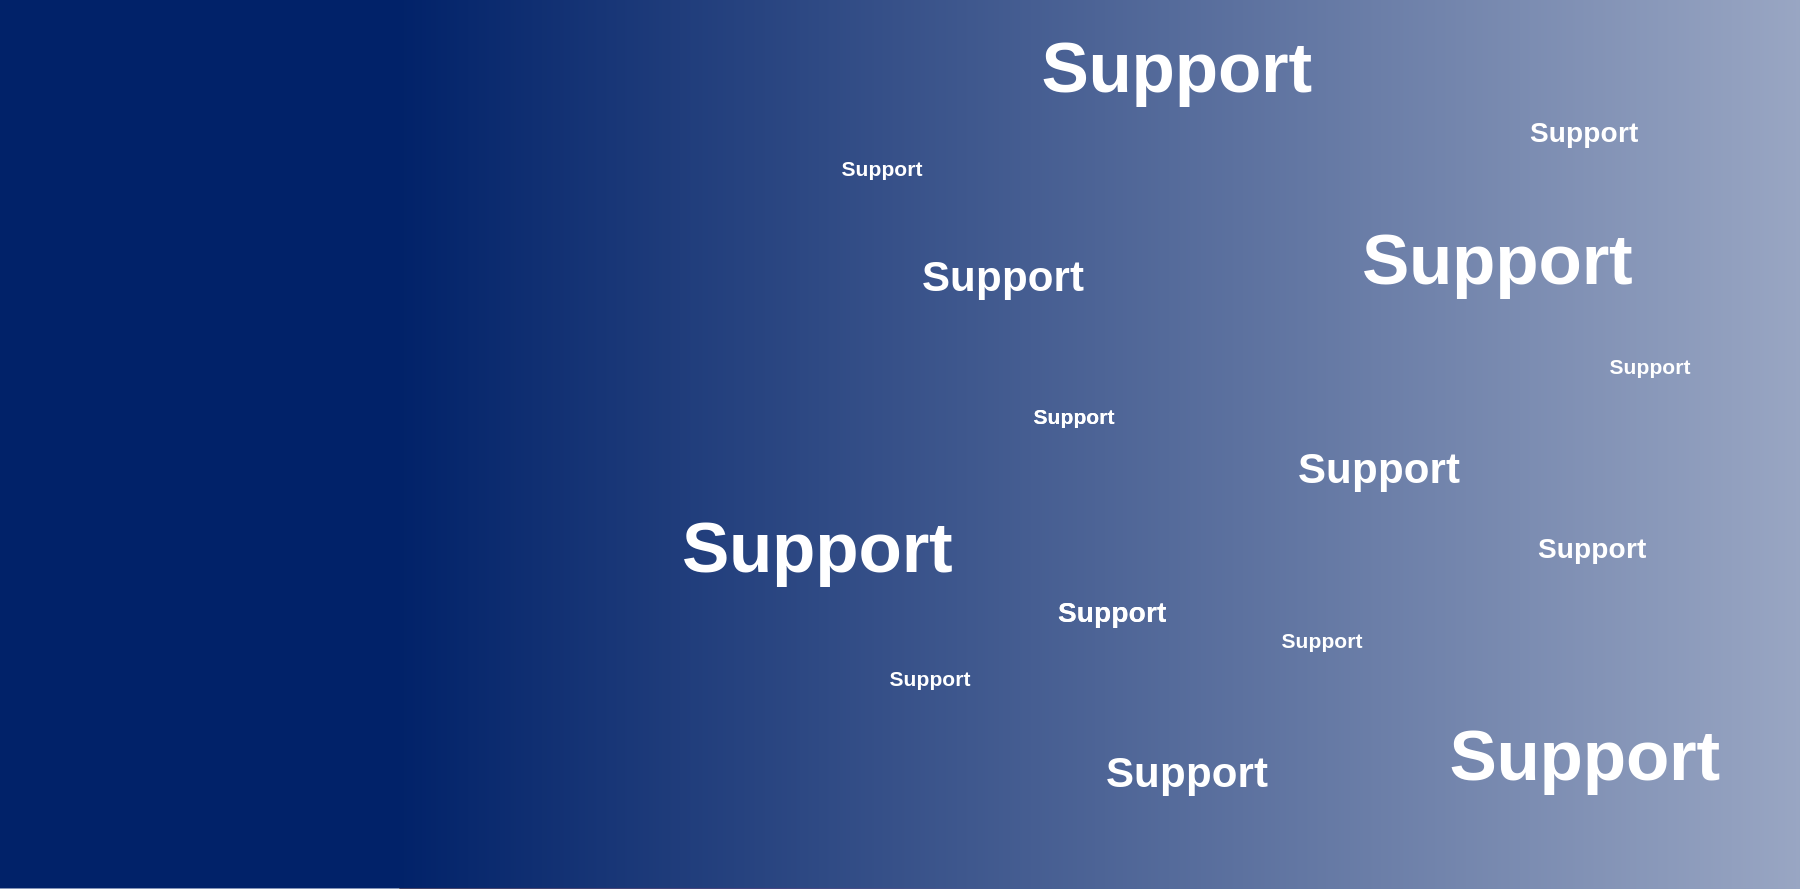
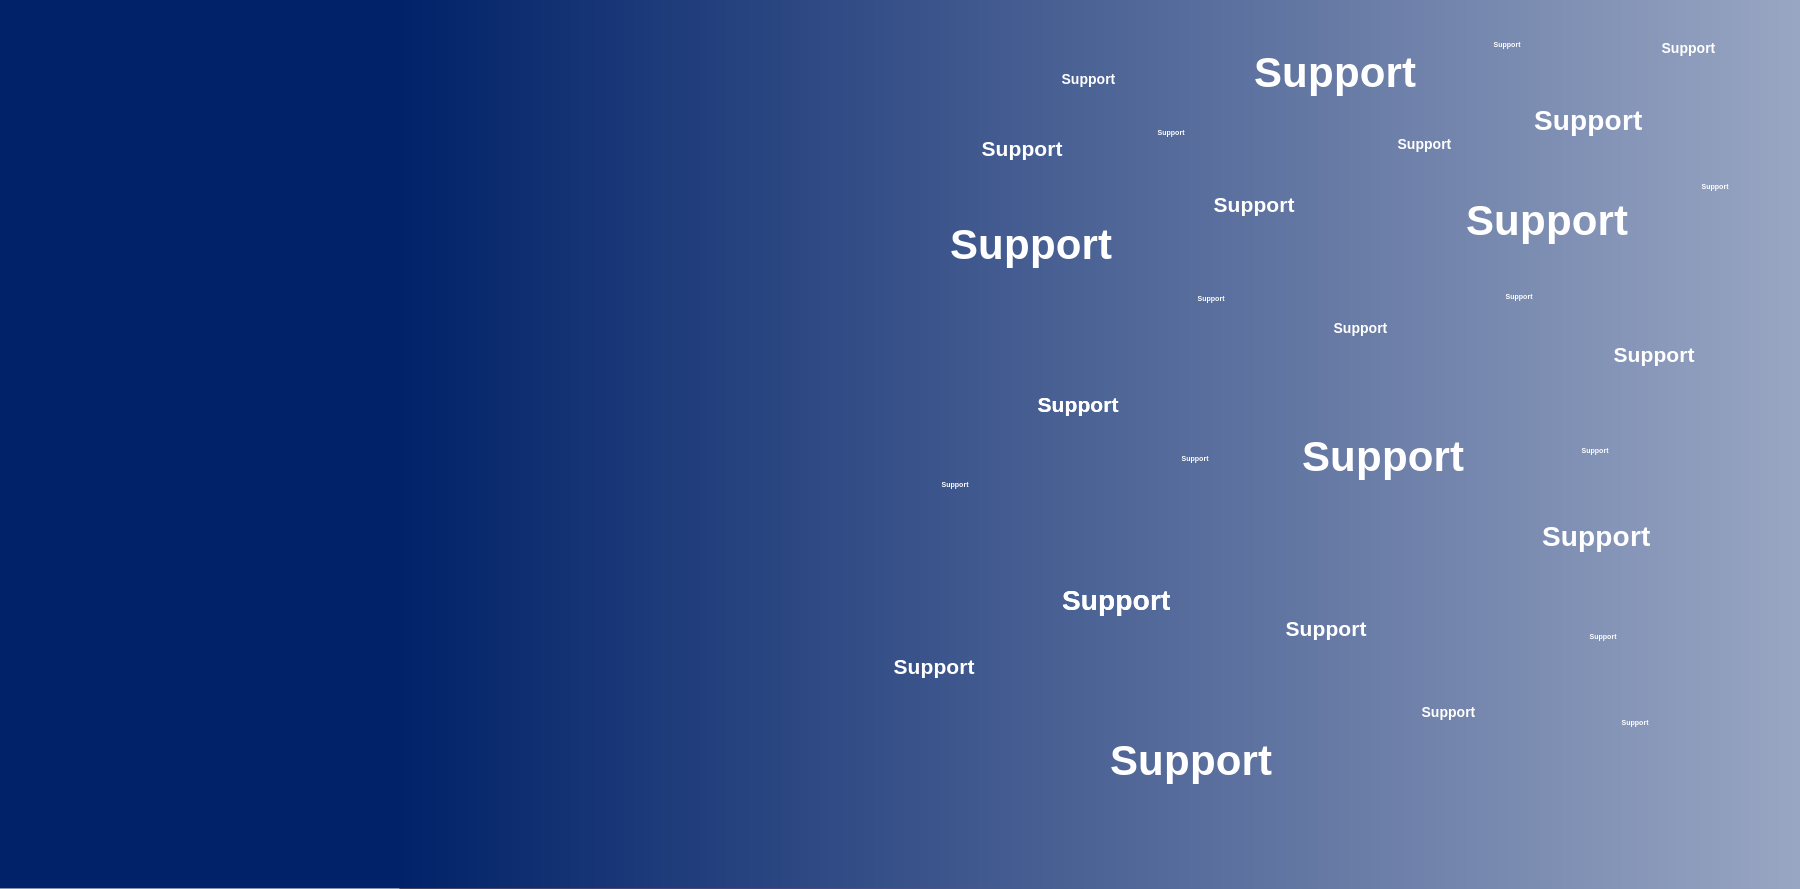
improved headers

diff --git a/static/css/support.css b/static/css/support.css
@@ -1,5 +1,5 @@
 .header-default-bg-img .featured-jumbotron {
-    background-image: url('/4diac/img/4diac-contribute-bg.png');
+    background-image: url('/4diac/img/4diac-support-bg.png');
     background-repeat: no-repeat;
     background-size: cover;
   }

diff --git a/content/support.md b/content/support.md
@@ -1,9 +1,11 @@
 ---
 title: "Support"
 date: 2020-03-01T16:09:45-04:00
-#headline: "The Community for Open Innovation and Collaboration"
+headline: > 
+  Support for <span class="white">Eclipse 4diac™</span>
 #tagline: "The Eclipse Foundation provides our global community of individuals and organizations with a mature, scalable, and business-friendly environment for open source software collaboration and innovation."
 hide_page_title: true
+page_css_file: /4diac/css/support.css
 #hide_sidebar: true
 #hide_breadcrumb: true
 #show_featured_story: true
@@ -11,10 +13,6 @@ hide_page_title: true
 #links: [[href: "/projects/", text: "Projects"],[href: "/org/workinggroups/", text: "Working Group"],[href: "/membership/", text: "Members"],[href: "/org/value", text: "Business Value"]]
 #container: "container-fluid"
 ---
-
-{{< image src="../img/community.png" alt="asdf" width="18%" display="block" margin-left="100px" margin-right="auto">}}
-{{< image src="../img/community.png" alt="asdf" width="18%" display="block" margin-top="10px" margin-left="600px" margin-bottom="0px">}}
-{{< image src="../img/community.png" alt="asdf" width="18%" display="block" margin="auto">}}
 
 # Communication Channels
 {{< supportCards useMatchHeight="true" source="cardsSupport">}}

diff --git a/content/_index.md b/content/_index.md
@@ -1,7 +1,8 @@
 ---
 title: "Eclipse 4diac"
 date: 2020-03-01T16:09:45-04:00
-headline: "What is Eclipse 4diac™?"
+headline: > 
+  What is <span class="white">Eclipse 4diac™</span>?
 tagline: "Eclipse 4diac™ provides an open source infrastructure for distributed industrial process measurement and control systems
 based on the IEC 61499 standard."
 hide_page_title: true

diff --git a/content/contribute.md b/content/contribute.md
@@ -1,7 +1,8 @@
 ---
 title: "Contribute to 4diac"
 date: 2020-03-01T16:09:45-04:00
-headline: "Contribute to Eclipse 4diac"
+headline: > 
+  Contribute to <span class="white">Eclipse 4diac™</span>
 tagline: "Thanks for your interest to support 4diac. There are multiple ways to contribute"
 hide_page_title: true
 page_css_file: /4diac/css/contribute.css
